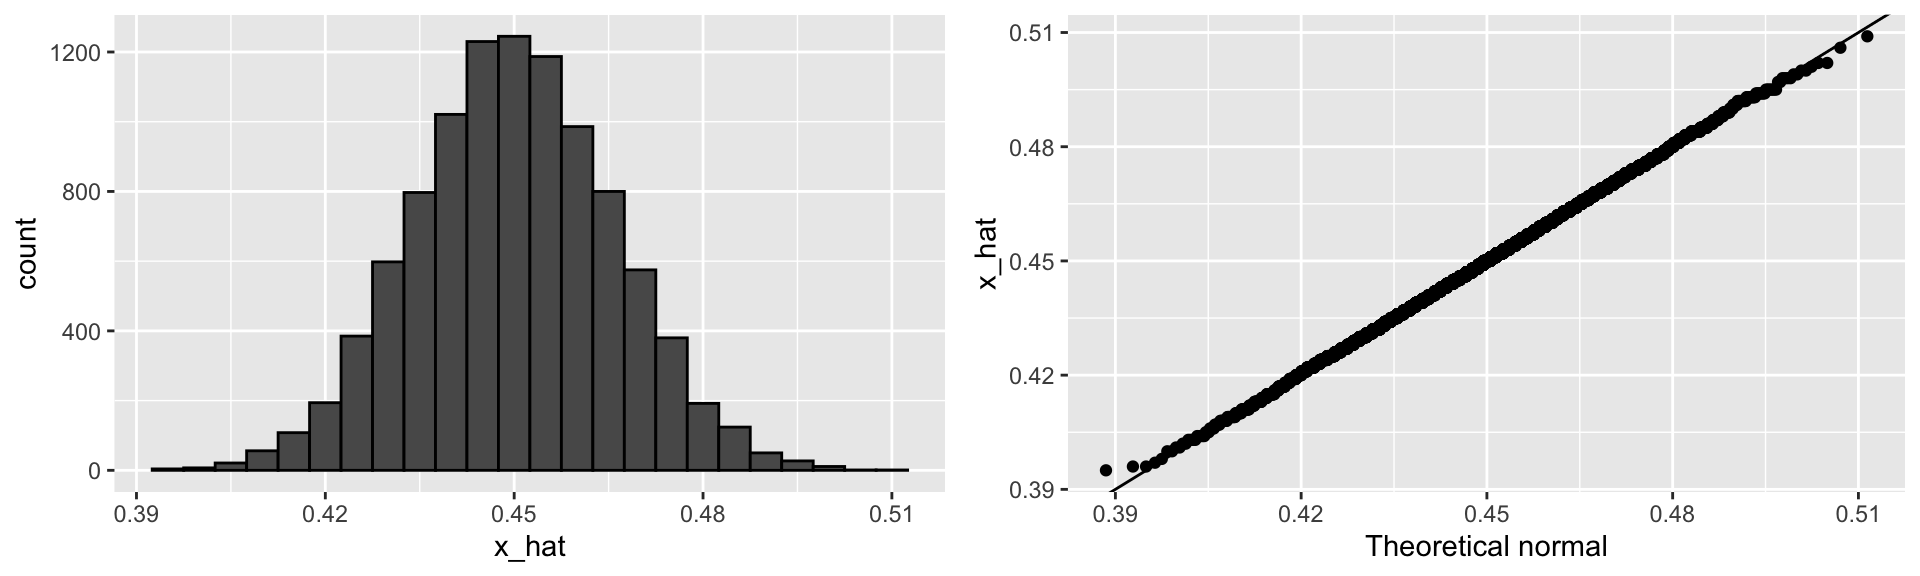
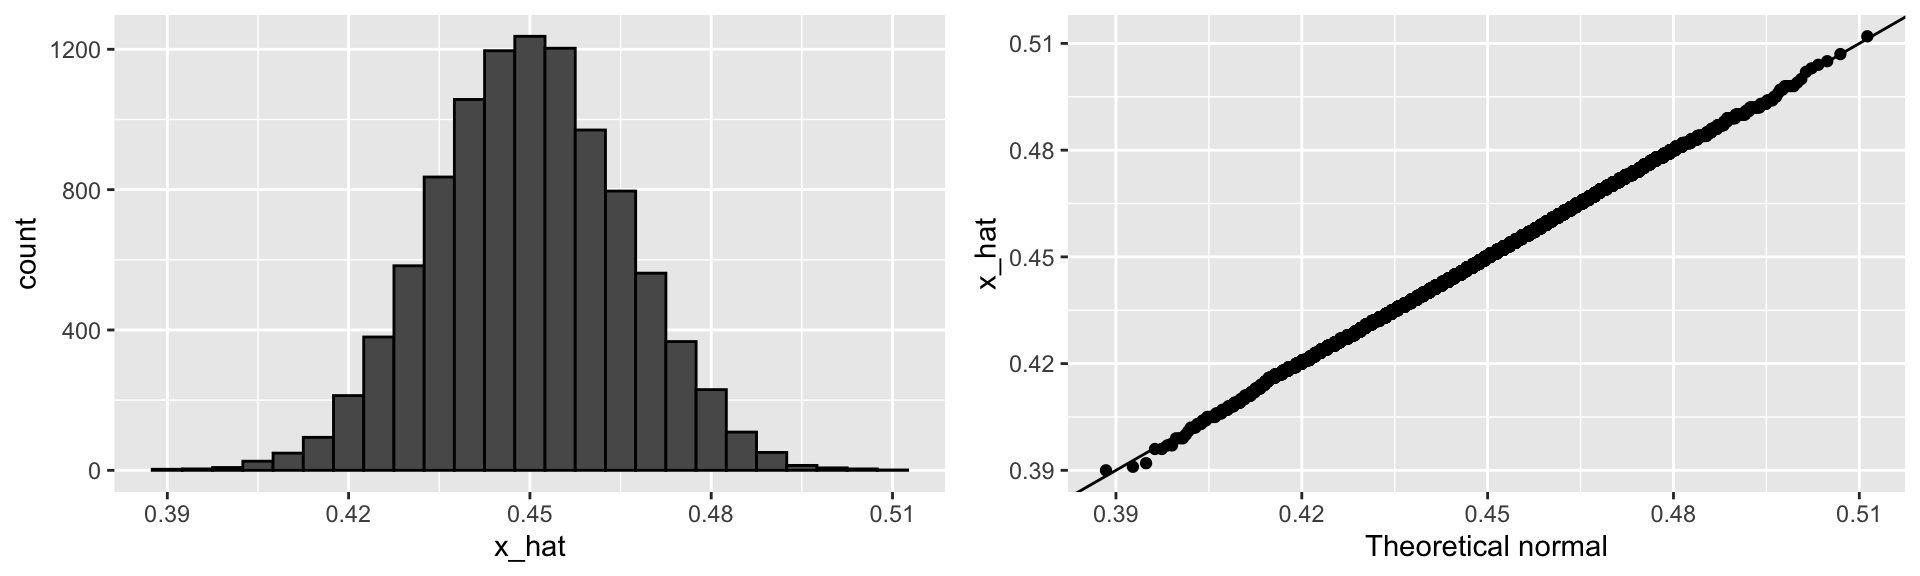
updated slides

diff --git a/docs/slides/inference/23-parameters-estimates.html b/docs/slides/inference/23-parameters-estimates.html
@@ -9,7 +9,7 @@
 <link href="../../site_libs/quarto-html/quarto-syntax-highlighting-dark-8ea72dc5fed832574809a9c94082fbbb.css" rel="stylesheet" id="quarto-text-highlighting-styles"><meta charset="utf-8">
   <meta name="generator" content="quarto-1.6.40">
 
-  <meta name="dcterms.date" content="2024-10-23">
+  <meta name="dcterms.date" content="2025-02-06">
   <meta name="keywords" content="Inference">
   <title>BIOSTAT 620: Introduction to Health Data Science – Parameters and Estimates</title>
   <meta name="apple-mobile-web-app-capable" content="yes">
@@ -198,7 +198,7 @@
 <div class="quarto-title-authors">
 </div>
 
-  <p class="date">2024-10-23</p>
+  <p class="date">2025-02-06</p>
 </section>
 <section id="the-sampling-model-for-polls" class="slide level2">
 <h2>The sampling model for polls</h2>
@@ -209,23 +209,24 @@
 <h2>The sampling model for polls</h2>
 <ul>
 <li><p>To help us understand the connection between polls and what we have learned, let’s construct a situation similar to what pollsters face.</p></li>
-<li><p>To simulate the challenge pollsters encounter in terms of competing with other pollsters for media attention, we will use an urn filled with beads to represent voters, and pretend we are competing for a $25 dollar prize.</p></li>
+<li><p>To simulate the challenge pollsters encounter in terms of competing with other pollsters for media attention, we will use an urn filled with beads to represent voters, and pretend we are competing for a $50 dollar prize.</p></li>
 <li><p>The challenge is to guess the spread between the proportion of blue and red beads in an urn.</p></li>
+<li><p>For this exercise, $1 = 1% of extra credit for HW1.</p></li>
 </ul>
 </section>
 <section id="the-sampling-model-for-polls-2" class="slide level2">
 <h2>The sampling model for polls</h2>
 <ul>
 <li><p>Before making a prediction, you can take a sample (with replacement) from the urn.</p></li>
-<li><p>To reflect the fact that running polls is expensive, it costs you $0.10 for each bead you sample.</p></li>
-<li><p>Therefore, if your sample size is 250, and you win, you will break even since you would have paid $25 to collect your $25 prize.</p></li>
-<li><p>Your entry into the competition can be an interval.</p></li>
+<li><p>To reflect the fact that running polls is expensive, it costs you $0.25 for each bead you sample. For the sake of this exercise, you only have to pay if you win. You can’t pay more than $50.</p></li>
+<li><p>Therefore, if your sample size is 200, and you win, you will break even since you would have paid $50 to collect your $50 prize.</p></li>
+<li><p>Your entry into the competition is an interval.</p></li>
 </ul>
 </section>
 <section id="the-sampling-model-for-polls-3" class="slide level2">
 <h2>The sampling model for polls</h2>
 <ul>
-<li><p>If the interval you submit contains the true proportion, you receive half what you paid and proceed to the second phase of the competition.</p></li>
+<li><p>If the interval you submit contains the true proportion, you proceed to the second phase of the competition.</p></li>
 <li><p>In the second phase, the entry with the smallest interval is selected as the winner.</p></li>
 <li><p>The <strong>dslabs</strong> package includes a function that shows a random draw from this urn:</p></li>
 </ul>
@@ -239,8 +240,8 @@
 <section id="populations-samples-parameters-and-estimates" class="slide level2">
 <h2>Populations, samples, parameters, and estimates</h2>
 <ul>
-<li><p>We want to predict difference proportion of blue beads - proportion of red beads</p></li>
-<li><p>Let’s the proportion of blue <span class="math inline">\(p\)</span></p></li>
+<li><p>We want to predict the difference of proportion of blue beads - proportion of red beads</p></li>
+<li><p>Let’s call the proportion of blue <span class="math inline">\(p\)</span></p></li>
 <li><p>We want to estimate <span class="math inline">\(p - (1-p)\)</span> = <span class="math inline">\(2p - 1\)</span>.</p></li>
 </ul>
 </section>
@@ -529,11 +530,11 @@
 <div class="cell">
 <div class="sourceCode cell-code" id="cb15"><pre class="sourceCode numberSource r number-lines code-with-copy"><code class="sourceCode r"><span id="cb15-1"><a></a><span class="fu">mean</span>(x_hat) </span></code><button title="Copy to Clipboard" class="code-copy-button"><i class="bi"></i></button></pre></div>
 <div class="cell-output cell-output-stdout">
-<pre><code>[1] 0.4499587</code></pre>
+<pre><code>[1] 0.4498414</code></pre>
 </div>
 <div class="sourceCode cell-code" id="cb17"><pre class="sourceCode numberSource r number-lines code-with-copy"><code class="sourceCode r"><span id="cb17-1"><a></a><span class="fu">sd</span>(x_hat) </span></code><button title="Copy to Clipboard" class="code-copy-button"><i class="bi"></i></button></pre></div>
 <div class="cell-output cell-output-stdout">
-<pre><code>[1] 0.01580187</code></pre>
+<pre><code>[1] 0.01579516</code></pre>
 </div>
 </div>
 </section>

diff --git a/docs/slides/inference/24-confidence-intervals.html b/docs/slides/inference/24-confidence-intervals.html
@@ -9,7 +9,7 @@
 <link href="../../site_libs/quarto-html/quarto-syntax-highlighting-dark-8ea72dc5fed832574809a9c94082fbbb.css" rel="stylesheet" id="quarto-text-highlighting-styles"><meta charset="utf-8">
   <meta name="generator" content="quarto-1.6.40">
 
-  <meta name="dcterms.date" content="2024-10-23">
+  <meta name="dcterms.date" content="2025-02-06">
   <meta name="keywords" content="Inference">
   <title>BIOSTAT 620: Introduction to Health Data Science – Confidence Intervals</title>
   <meta name="apple-mobile-web-app-capable" content="yes">
@@ -198,7 +198,7 @@
 <div class="quarto-title-authors">
 </div>
 
-  <p class="date">2024-10-23</p>
+  <p class="date">2025-02-06</p>
 </section>
 <section id="confidence-intervals" class="slide level2">
 <h2>Confidence intervals</h2>
@@ -216,7 +216,7 @@
 <h2>Confidence intervals</h2>
 <ul>
 <li><p>In our competition, you were asked to give an interval.</p></li>
-<li><p>If the interval you submitted includes the <span class="math inline">\(p\)</span>, you receive half the money you spent on your “poll” back and proceed to the next stage of the competition.</p></li>
+<li><p>If the interval you submitted includes the <span class="math inline">\(p\)</span>, you proceed to the next stage of the competition.</p></li>
 </ul>
 </section>
 <section id="confidence-intervals-3" class="slide level2">
@@ -231,7 +231,7 @@
 <h2>Confidence intervals</h2>
 <ul>
 <li><p>Similarly, if you are an election forecaster and predict the spread will be between -100% and 100%, you will be ridiculed for stating the obvious.</p></li>
-<li><p>Even a smaller interval, such as saying the spread will be between -10 and 10%, will not be considered serious.</p></li>
+<li><p>Even a smaller interval, such as saying the spread will be between -10 and 10%, will not be considered seriously.</p></li>
 </ul>
 </section>
 <section id="confidence-intervals-5" class="slide level2">
@@ -265,7 +265,7 @@
 <span id="cb2-3"><a></a>se_hat <span class="ot">&lt;-</span> <span class="fu">sqrt</span>(x_hat<span class="sc">*</span>(<span class="dv">1</span> <span class="sc">-</span> x_hat)<span class="sc">/</span>N) </span>
 <span id="cb2-4"><a></a><span class="fu">c</span>(x_hat <span class="sc">-</span> <span class="fl">1.96</span><span class="sc">*</span>se_hat, x_hat <span class="sc">+</span> <span class="fl">1.96</span><span class="sc">*</span>se_hat) </span></code><button title="Copy to Clipboard" class="code-copy-button"><i class="bi"></i></button></pre></div>
 <div class="cell-output cell-output-stdout">
-<pre><code>[1] 0.4072489 0.4687511</code></pre>
+<pre><code>[1] 0.3686485 0.4293515</code></pre>
 </div>
 </div>
 <ul>
@@ -277,7 +277,7 @@
 <span id="cb4-3"><a></a>se_hat <span class="ot">&lt;-</span> <span class="fu">sqrt</span>(x_hat<span class="sc">*</span>(<span class="dv">1</span> <span class="sc">-</span> x_hat)<span class="sc">/</span>N) </span>
 <span id="cb4-4"><a></a><span class="fu">c</span>(x_hat <span class="sc">-</span> <span class="fl">1.96</span><span class="sc">*</span>se_hat, x_hat <span class="sc">+</span> <span class="fl">1.96</span><span class="sc">*</span>se_hat) </span></code><button title="Copy to Clipboard" class="code-copy-button"><i class="bi"></i></button></pre></div>
 <div class="cell-output cell-output-stdout">
-<pre><code>[1] 0.4400618 0.5019382</code></pre>
+<pre><code>[1] 0.4330901 0.4949099</code></pre>
 </div>
 </div>
 <ul>
@@ -349,7 +349,7 @@
 <section id="confidence-intervals-12" class="slide level2">
 <h2>Confidence intervals</h2>
 <ul>
-<li><p>In statistics textbooks, confidence interval formulas are given for arbitraty probabilities written as <span class="math inline">\(1-\alpha\)</span>.</p></li>
+<li><p>In statistics textbooks, confidence interval formulas are given for arbitrary probabilities written as <span class="math inline">\(1-\alpha\)</span>.</p></li>
 <li><p>We can obtain the <span class="math inline">\(z\)</span> for the equation above using <code>z = qnorm(1 - alpha / 2)</code> because <span class="math inline">\(1 - \alpha/2 - \alpha/2 = 1 - \alpha\)</span>.</p></li>
 <li><p>So, for example, for <span class="math inline">\(\alpha=0.05\)</span>, <span class="math inline">\(1 - \alpha/2 = 0.975\)</span> and we get the <span class="math inline">\(z=1.96\)</span> we used above:</p></li>
 </ul>
@@ -376,7 +376,7 @@
 <span id="cb14-8"><a></a>}) </span>
 <span id="cb14-9"><a></a><span class="fu">mean</span>(inside) </span></code><button title="Copy to Clipboard" class="code-copy-button"><i class="bi"></i></button></pre></div>
 <div class="cell-output cell-output-stdout">
-<pre><code>[1] 0.9457</code></pre>
+<pre><code>[1] 0.9495</code></pre>
 </div>
 </div>
 </section>

diff --git a/docs/index.html b/docs/index.html
@@ -244,12 +244,27 @@ ul.task-list li input[type="checkbox"] {
 <td style="text-align: left;"><a href="./slides/prob/20-intro-to-prob.html">Intro</a>, <a href="./slides/prob/21-inference-foundations.html">Foundations for Inference</a></td>
 <td style="text-align: left;"><a href="http://rafalab.dfci.harvard.edu/dsbook-part-2/prob/continuous-probability.html#monte-carlo">Monte Carlo</a>, <a href="http://rafalab.dfci.harvard.edu/dsbook-part-2/prob/random-variables-sampling-models-clt.html">Random Variables &amp; CLT</a></td>
 </tr>
+<tr class="odd">
+<td style="text-align: left;">Feb 06</td>
+<td style="text-align: left;">Inference</td>
+<td style="text-align: left;"><a href="./slides/inference/22-intro-inference.html">Intro</a>, <a href="./slides/inference/23-parameters-estimates.html">Parameter and estimates</a>, <a href="./slides/inference/24-confidence-intervals.html">Confidence Intervals</a></td>
+<td style="text-align: left;"><a href="http://rafalab.dfci.harvard.edu/dsbook-part-2/inference/parameters-estimates.html">Parameters &amp; Estimates</a>, <a href="http://rafalab.dfci.harvard.edu/dsbook-part-2/inference/confidence-intervals.html">Confidence Intervals</a></td>
+</tr>
+<tr class="even">
+<td style="text-align: left;">Feb 11, Feb 13</td>
+<td style="text-align: left;">Statistical Models</td>
+<td style="text-align: left;"><a href="./slides/inference/25-models.html">Models</a>, <a href="./slides/inference/26-bayes.html">Bayes</a>, <a href="./slides/inference/27-hierarchical-models.html">Hierarchical Models</a></td>
+<td style="text-align: left;"><a href="http://rafalab.dfci.harvard.edu/dsbook-part-2/inference/models.html">Data-driven Models</a>, <a href="http://rafalab.dfci.harvard.edu/dsbook-part-2/inference/bayes.html">Bayesian Statistics</a>, <a href="http://rafalab.dfci.harvard.edu/dsbook-part-2/inference/hierarchical-models.html">Hierarchical Models</a></td>
+</tr>
+<tr class="odd">
+<td style="text-align: left;">Feb 18</td>
+<td style="text-align: left;">Midterm 1</td>
+<td style="text-align: left;"></td>
+<td style="text-align: left;">Covers material from Jan 09-Feb 13</td>
+</tr>
 </tbody>
 </table>
 <!--
-| Oct 16 | Midterm 1 | | Covers material from Sep 04-Oct 11|
-| Oct 23 | Inference | [Intro](slides/inference/22-intro-inference.qmd), [Parameter and estimates](slides/inference/23-parameters-estimates.qmd), [Confidence Intervals](slides/inference/24-confidence-intervals.qmd) | [Parameters & Estimates](http://rafalab.dfci.harvard.edu/dsbook-part-2/inference/parameters-estimates.html), [Confidence Intervals](http://rafalab.dfci.harvard.edu/dsbook-part-2/inference/confidence-intervals.html) |
-| Oct 28, Oct 30 | Statistical Models | [Models](slides/inference/25-models.qmd), [Bayes](slides/inference/26-bayes.qmd), [Hierarchical Models](slides/inference/27-hierarchical-models.qmd) | [Data-driven Models](http://rafalab.dfci.harvard.edu/dsbook-part-2/inference/models.html),  [Bayesian Statistics](http://rafalab.dfci.harvard.edu/dsbook-part-2/inference/bayes.html), [Hierarchical Models](http://rafalab.dfci.harvard.edu/dsbook-part-2/inference/hierarchical-models.html) |
 | Nov 04, Nov 06 |  Linear models  | [Intro](slides/linear-models/28-intro-to-linear-models.qmd), [Regression](slides/linear-models/29-regression.qmd) |  [Regression](http://rafalab.dfci.harvard.edu/dsbook-part-2/linear-models/regression.html), [Multivariate Regression](http://rafalab.dfci.harvard.edu/dsbook-part-2/linear-models/multivariate-regression.html) |
 | Nov 13, Nov 18 |  Linear models  | [Multivariate regression](slides/linear-models/30-multivariate-regression.qmd), [Treatment effect models](slides/linear-models/31-treatment-effect-models.qmd) |  [Measurement Error Models](http://rafalab.dfci.harvard.edu/dsbook-part-2/linear-models/measurement-error-models.html), [Treatment Effect Models](http://rafalab.dfci.harvard.edu/dsbook-part-2/linear-models/treatment-effect-models.html), [Association Tests](http://rafalab.dfci.harvard.edu/dsbook-part-2/linear-models/association-tests.html), [Association Not Causation](http://rafalab.dfci.harvard.edu/dsbook-part-2/linear-models/association-not-causation.html) |
 |  Nov 20 | High dimensional data| [Intro to Linear Algebra](slides/highdim/32-linear-algebra-intro.qmd), [Matrices in R](slides/highdim/33-matrices-in-R.qmd) | [Matrices in R](https://rafalab.dfci.harvard.edu/dsbook-part-2/highdim/matrices-in-R.html), [Applied Linear Algebra](https://rafalab.dfci.harvard.edu/dsbook-part-2/highdim/linear-algebra.html), |

diff --git a/docs/slides.html b/docs/slides.html
@@ -457,7 +457,7 @@ Date
 <span class="listing-date">Thu, Jan 30</span>
 </td>
 </tr>
-<tr data-index="20" data-listing-date-sort="1738645200000" data-listing-file-modified-sort="1738673241990" data-listing-date-modified-sort="NaN" data-listing-reading-time-sort="20" data-listing-word-count-sort="3817" data-listing-title-sort="Introduction to Probability" data-listing-filename-sort="20-intro-to-prob.qmd">
+<tr data-index="20" data-listing-date-sort="1738645200000" data-listing-file-modified-sort="1738797533164" data-listing-date-modified-sort="NaN" data-listing-reading-time-sort="20" data-listing-word-count-sort="3824" data-listing-title-sort="Introduction to Probability" data-listing-filename-sort="20-intro-to-prob.qmd">
 <td>
 <span class="listing-keywords">Probability</span>
 </td>
@@ -477,6 +477,72 @@ Date
 </td>
 <td>
 <span class="listing-date">Tue, Feb 04</span>
+</td>
+</tr>
+<tr data-index="22" data-listing-date-sort="1738818000000" data-listing-file-modified-sort="1738798035993" data-listing-date-modified-sort="NaN" data-listing-reading-time-sort="3" data-listing-word-count-sort="476" data-listing-title-sort="Introduction to Statistical Inference and Models" data-listing-filename-sort="22-intro-inference.qmd">
+<td>
+<span class="listing-keywords">Inference</span>
+</td>
+<td>
+<a href="./slides/inference/22-intro-inference.html" class="title listing-title">Introduction to Statistical Inference and Models</a>
+</td>
+<td>
+<span class="listing-date">Thu, Feb 06</span>
+</td>
+</tr>
+<tr data-index="23" data-listing-date-sort="1738818000000" data-listing-file-modified-sort="1738801042325" data-listing-date-modified-sort="NaN" data-listing-reading-time-sort="11" data-listing-word-count-sort="2102" data-listing-title-sort="Parameters and Estimates" data-listing-filename-sort="23-parameters-estimates.qmd">
+<td>
+<span class="listing-keywords">Inference</span>
+</td>
+<td>
+<a href="./slides/inference/23-parameters-estimates.html" class="title listing-title">Parameters and Estimates</a>
+</td>
+<td>
+<span class="listing-date">Thu, Feb 06</span>
+</td>
+</tr>
+<tr data-index="24" data-listing-date-sort="1738818000000" data-listing-file-modified-sort="1738801356055" data-listing-date-modified-sort="NaN" data-listing-reading-time-sort="5" data-listing-word-count-sort="807" data-listing-title-sort="Confidence Intervals" data-listing-filename-sort="24-confidence-intervals.qmd">
+<td>
+<span class="listing-keywords">Inference</span>
+</td>
+<td>
+<a href="./slides/inference/24-confidence-intervals.html" class="title listing-title">Confidence Intervals</a>
+</td>
+<td>
+<span class="listing-date">Thu, Feb 06</span>
+</td>
+</tr>
+<tr data-index="25" data-listing-date-sort="1739250000000" data-listing-file-modified-sort="1738798074183" data-listing-date-modified-sort="NaN" data-listing-reading-time-sort="13" data-listing-word-count-sort="2470" data-listing-title-sort="Data-driven models" data-listing-filename-sort="25-models.qmd">
+<td>
+<span class="listing-keywords">Inference</span>
+</td>
+<td>
+<a href="./slides/inference/25-models.html" class="title listing-title">Data-driven models</a>
+</td>
+<td>
+<span class="listing-date">Tue, Feb 11</span>
+</td>
+</tr>
+<tr data-index="26" data-listing-date-sort="1739250000000" data-listing-file-modified-sort="1738798105225" data-listing-date-modified-sort="NaN" data-listing-reading-time-sort="9" data-listing-word-count-sort="1793" data-listing-title-sort="Bayesian Models" data-listing-filename-sort="26-bayes.qmd">
+<td>
+<span class="listing-keywords">Inference</span>
+</td>
+<td>
+<a href="./slides/inference/26-bayes.html" class="title listing-title">Bayesian Models</a>
+</td>
+<td>
+<span class="listing-date">Tue, Feb 11</span>
+</td>
+</tr>
+<tr data-index="27" data-listing-date-sort="1739422800000" data-listing-file-modified-sort="1738798115796" data-listing-date-modified-sort="NaN" data-listing-reading-time-sort="23" data-listing-word-count-sort="4521" data-listing-title-sort="Hierarchical Models" data-listing-filename-sort="27-hierarchical-models.qmd">
+<td>
+<span class="listing-keywords">Inference</span>
+</td>
+<td>
+<a href="./slides/inference/27-hierarchical-models.html" class="title listing-title">Hierarchical Models</a>
+</td>
+<td>
+<span class="listing-date">Thu, Feb 13</span>
 </td>
 </tr>
 </tbody>

diff --git a/docs/slides/prob/20-intro-to-prob.html b/docs/slides/prob/20-intro-to-prob.html
@@ -342,18 +342,18 @@
 <li>If we want to determine the probability of two events, say <span class="math inline">\(A\)</span> and <span class="math inline">\(B\)</span>, occurring, we can use the multiplication rule:</li>
 </ul>
 <p><span class="math display">\[
-\mbox{Pr}(A \cup B) = \mbox{Pr}(A)\mbox{Pr}(B \mid A)
+\mbox{Pr}(A, B) = \mbox{Pr}(A)\mbox{Pr}(B \mid A)
 \]</span></p>
 </section>
 <section id="multiplication-rule-1" class="slide level2">
 <h2>Multiplication rule</h2>
 <ul>
-<li>For example:</li>
+<li>For example (note that <code>10-value</code> represents the 4 cards with value of 10: 10, Jack, Queen, and King):</li>
 </ul>
 <p><span class="math display">\[
 \mbox{Pr}(\mbox{Blackjack in first hand}) = \\
-\mbox{Pr}(\mbox{Ace first})\mbox{Pr}(\mbox{Face card second}\mid \mbox{Ace first}) +\\
-\mbox{Pr}(\mbox{Face card first})\mbox{Pr}(\mbox{Ace}\mid \mbox{Face card second}) =\\
+\mbox{Pr}(\mbox{Ace first})\mbox{Pr}(\mbox{10-value second}\mid \mbox{Ace first}) +\\
+\mbox{Pr}(\mbox{10-value first})\mbox{Pr}(\mbox{Ace}\mid \mbox{10-value second}) =\\
 \frac{1}{13}\frac{16}{51} + \frac{4}{13}\frac{4}{51} \approx 0.0483
 \]</span></p>
 </section>
@@ -363,7 +363,7 @@
 <li>We can use induction to expand for more events:</li>
 </ul>
 <p><span class="math display">\[
-\mbox{Pr}(A \cup B \cup C) = \mbox{Pr}(A)\mbox{Pr}(B \mid A)\mbox{Pr}(C \mid A \cup B)
+\mbox{Pr}(A, B, C) = \mbox{Pr}(A)\mbox{Pr}(B \mid A)\mbox{Pr}(C \mid A , B)
 \]</span></p>
 </section>
 <section id="multiplication-rule-3" class="slide level2">
@@ -372,7 +372,7 @@
 <li>When dealing with independent events, the multiplication rule becomes simpler:</li>
 </ul>
 <p><span class="math display">\[
-\mbox{Pr}(A \cup B \cup C) = \mbox{Pr}(A)\mbox{Pr}(B)\mbox{Pr}(C)
+\mbox{Pr}(A, B, C) = \mbox{Pr}(A)\mbox{Pr}(B)\mbox{Pr}(C)
 \]</span></p>
 <ul>
 <li>However, we have to be very careful before using this version of the multiplication rule, since assuming independence can result in very different and incorrect probability calculations when events are not actually independent.</li>
@@ -394,7 +394,7 @@
 <li>The multiplication rule also gives us a general formula for computing conditional probabilities:</li>
 </ul>
 <p><span class="math display">\[
-\mbox{Pr}(B \mid A) = \frac{\mbox{Pr}(A \cup B)}{ \mbox{Pr}(A)}
+\mbox{Pr}(B \mid A) = \frac{\mbox{Pr}(A, B)}{ \mbox{Pr}(A)}
 \]</span></p>
 </section>
 <section id="addition-rule" class="slide level2">

diff --git a/docs/slides/inference/22-intro-inference.html b/docs/slides/inference/22-intro-inference.html
@@ -9,7 +9,7 @@
 <link href="../../site_libs/quarto-html/quarto-syntax-highlighting-dark-8ea72dc5fed832574809a9c94082fbbb.css" rel="stylesheet" id="quarto-text-highlighting-styles"><meta charset="utf-8">
   <meta name="generator" content="quarto-1.6.40">
 
-  <meta name="dcterms.date" content="2024-10-23">
+  <meta name="dcterms.date" content="2025-02-06">
   <meta name="keywords" content="Inference">
   <title>BIOSTAT 620: Introduction to Health Data Science – Introduction to Statistical Inference and Models</title>
   <meta name="apple-mobile-web-app-capable" content="yes">
@@ -133,7 +133,7 @@
 <div class="quarto-title-authors">
 </div>
 
-  <p class="date">2024-10-23</p>
+  <p class="date">2025-02-06</p>
 </section>
 <section id="statistical-inference" class="slide level2">
 <h2>Statistical inference</h2>

diff --git a/docs/slides/inference/27-hierarchical-models.html b/docs/slides/inference/27-hierarchical-models.html
@@ -9,7 +9,7 @@
 <link href="../../site_libs/quarto-html/quarto-syntax-highlighting-dark-8ea72dc5fed832574809a9c94082fbbb.css" rel="stylesheet" id="quarto-text-highlighting-styles"><meta charset="utf-8">
   <meta name="generator" content="quarto-1.6.40">
 
-  <meta name="dcterms.date" content="2024-10-30">
+  <meta name="dcterms.date" content="2025-02-13">
   <meta name="keywords" content="Inference">
   <title>BIOSTAT 620: Introduction to Health Data Science – Hierarchical Models</title>
   <meta name="apple-mobile-web-app-capable" content="yes">
@@ -200,7 +200,7 @@
 <div class="quarto-title-authors">
 </div>
 
-  <p class="date">2024-10-30</p>
+  <p class="date">2025-02-13</p>
 </section>
 <section id="hierarchichal-models" class="slide level2">
 <h2>Hierarchichal Models</h2>

diff --git a/docs/slides/inference/25-models.html b/docs/slides/inference/25-models.html
@@ -9,7 +9,7 @@
 <link href="../../site_libs/quarto-html/quarto-syntax-highlighting-dark-8ea72dc5fed832574809a9c94082fbbb.css" rel="stylesheet" id="quarto-text-highlighting-styles"><meta charset="utf-8">
   <meta name="generator" content="quarto-1.6.40">
 
-  <meta name="dcterms.date" content="2024-10-28">
+  <meta name="dcterms.date" content="2025-02-11">
   <meta name="keywords" content="Inference">
   <title>BIOSTAT 620: Introduction to Health Data Science – Data-driven models</title>
   <meta name="apple-mobile-web-app-capable" content="yes">
@@ -198,7 +198,7 @@
 <div class="quarto-title-authors">
 </div>
 
-  <p class="date">2024-10-28</p>
+  <p class="date">2025-02-11</p>
 </section>
 <section id="data-driven-models" class="slide level2">
 <h2>Data-driven models</h2>

diff --git a/docs/slides/inference/26-bayes.html b/docs/slides/inference/26-bayes.html
@@ -9,7 +9,7 @@
 <link href="../../site_libs/quarto-html/quarto-syntax-highlighting-dark-8ea72dc5fed832574809a9c94082fbbb.css" rel="stylesheet" id="quarto-text-highlighting-styles"><meta charset="utf-8">
   <meta name="generator" content="quarto-1.6.40">
 
-  <meta name="dcterms.date" content="2024-10-30">
+  <meta name="dcterms.date" content="2025-02-11">
   <meta name="keywords" content="Inference">
   <title>BIOSTAT 620: Introduction to Health Data Science – Bayesian Models</title>
   <meta name="apple-mobile-web-app-capable" content="yes">
@@ -198,7 +198,7 @@
 <div class="quarto-title-authors">
 </div>
 
-  <p class="date">2024-10-30</p>
+  <p class="date">2025-02-11</p>
 </section>
 <section id="bayesian-statistics" class="slide level2">
 <h2>Bayesian statistics</h2>
